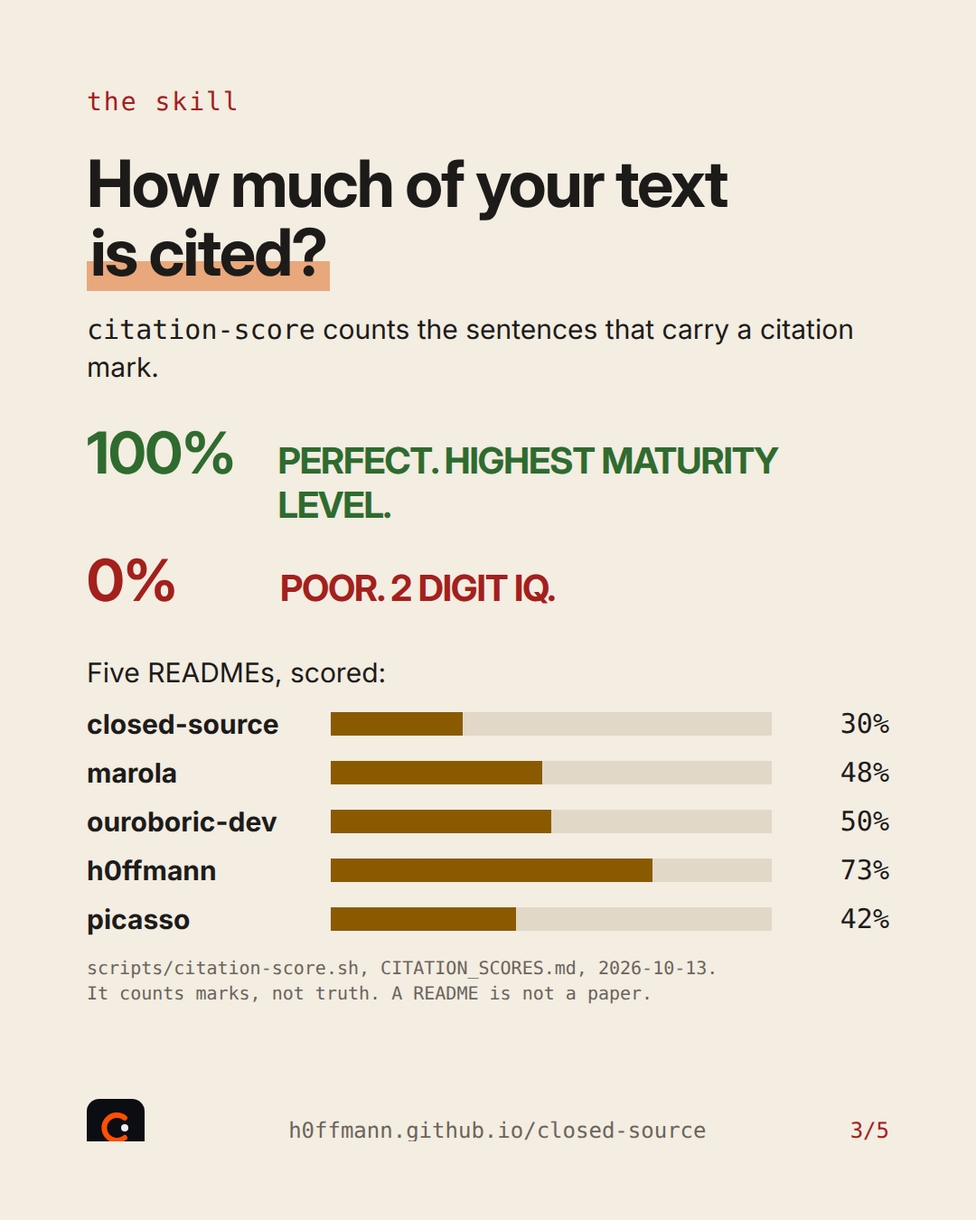
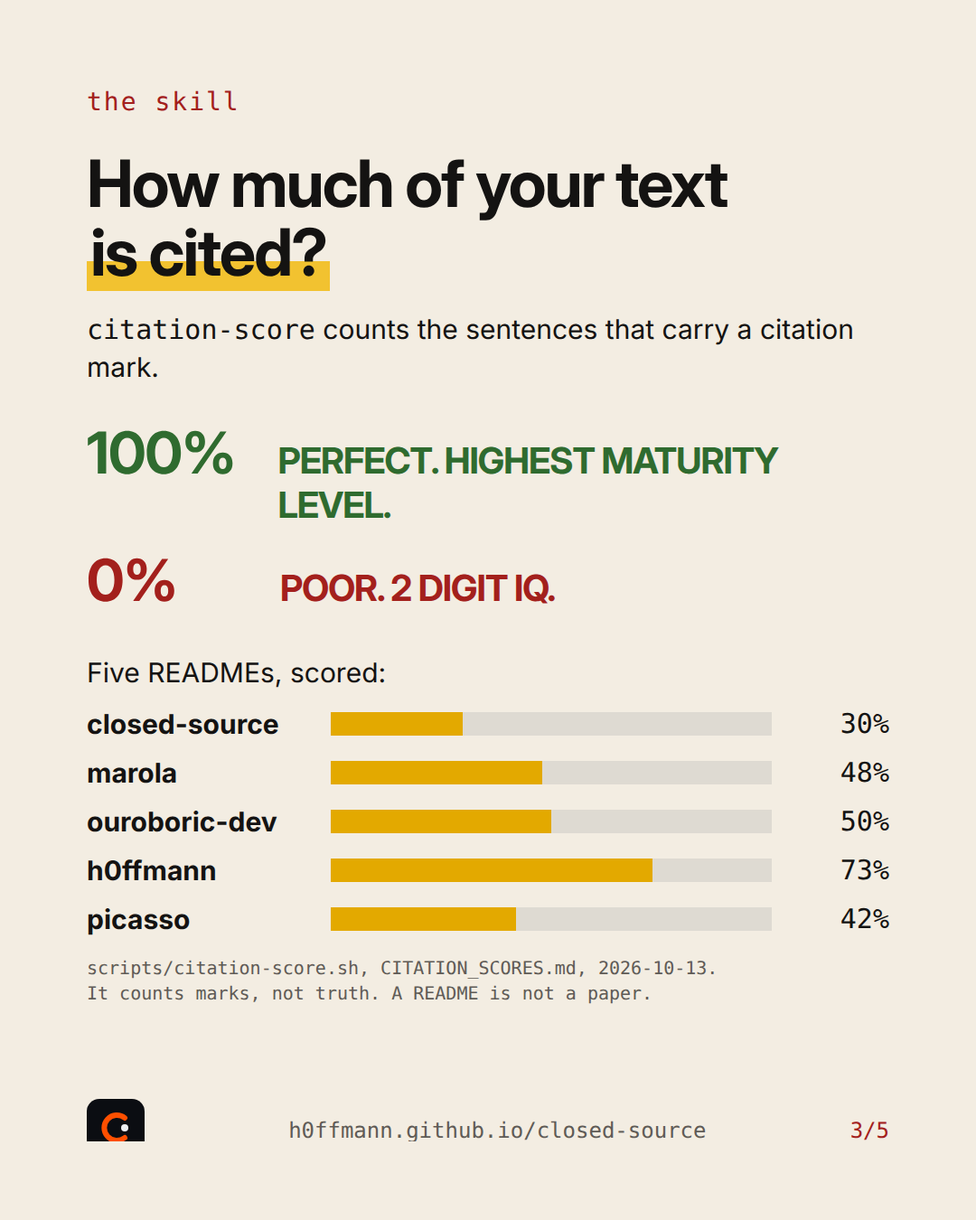
feat(identity): black and red with yellow letters, no brown; the post in easy pt-BR; the first quote
- Identity: the site's cover, its dark theme, the closed-source tile, the README
  badges and the Instagram slides drop brown for black and red, with the title
  in yellow letters, after Hoppe's Democracy (the owner's choice). AGENTS.md
  records the rule.
- docs/social/instagram_001: an easy Brazilian Portuguese version of the post,
  made with the easy-pt-br skill: five slides with the hard words explained and
  README.easy.pt-BR.md. render.mjs renders both versions.
- easy-pt-br skill: a section for documents other than the root README.
- QUOTES.md: its first row, the saying credited to Pablo Picasso, with its
  source, its check (partial: no documentary evidence) and a link to
  h0ffmann/picasso.

Changed region(s): [[0.3361, 0.56, 0.6722, 0.7778], [0.0917, 0.1867, 0.3361, 0.2489]]

diff --git a/site/static/style.css b/site/static/style.css
@@ -1,19 +1,20 @@
 /* The cover follows the type and colour scheme of the cover of Hoppe's "Democracy: The God That
-   Failed" (Transaction, 2001): a brown field, the first half of the title in white, a red band,
-   the second half in black on paper. Colours are estimates; no cover art is reproduced.
+   Failed" (Transaction, 2001), in the identity the owner set on 13 October 2026: a black field,
+   the first half of the title in yellow letters, a red band, the second half in black on paper.
+   No brown anywhere. Colours are choices, not samples; no cover art is reproduced.
    Motion follows Anthropic's frontend-design skill (Apache-2.0): one orchestrated entrance, and
    nothing moves under prefers-reduced-motion. */
 :root {
   --paper: #F4EFE6;
   --surface: #EBE3D6;
   --ink: #141210;
-  --muted: #6B5D4F;
-  --rule: #CDBFAC;
-  --brown: #5A3A22;
-  --brown-deep: #3E2817;
+  --muted: #5F5B56;
+  --rule: #CFC8BC;
+  --black: #0F0E0D;
+  --yellow: #F2C230;
   --red: #A3201C;
   --red-text: #A3201C;
-  --on-brown: #F4EFE6;
+  --on-black: #F4EFE6;
   --ok: #2F6B2F;
   --warn: #8A5A00;
   --serif: 'EB Garamond', Garamond, Georgia, serif;
@@ -23,13 +24,12 @@
 }
 @media (prefers-color-scheme: dark) {
   :root:not([data-theme="light"]) {
-    --paper: #1C140E;
-    --surface: #271C14;
+    --paper: #121110;
+    --surface: #1C1B19;
     --ink: #F1EADF;
-    --muted: #B5A592;
-    --rule: #4A3828;
-    --brown: #4B3020;
-    --brown-deep: #2E1F14;
+    --muted: #B4AEA6;
+    --rule: #3A3734;
+    --black: #050505;
     --red-text: #E0675F;
     --ok: #7BC07B;
     --warn: #E0B35A;
@@ -56,9 +56,9 @@ code, pre { font-family: 'JetBrains Mono', ui-monospace, monospace; font-size: .
 
 /* The cover */
 .cover-art .field {
-  background: var(--brown);
+  background: var(--black);
   background-image: radial-gradient(80rem 30rem at 20% 0%, rgba(255, 240, 220, .08), transparent 70%);
-  color: var(--on-brown);
+  color: var(--on-black);
   padding: 72px 0 40px;
 }
 .imprint, .band p, .byline, .status, .jump a, .section-head h2, .tag, .figure span, .thinker .n {
@@ -73,6 +73,7 @@ code, pre { font-family: 'JetBrains Mono', ui-monospace, monospace; font-size: .
   font: 900 clamp(56px, 13vw, 168px)/.9 var(--display);
   letter-spacing: -.01em;
   text-transform: uppercase;
+  color: var(--yellow);
 }
 .band { background: var(--red); color: #FFF5EE; transform-origin: left center; }
 .band p { margin: 0; padding: 14px 0; font-size: clamp(12px, 1.6vw, 15px); }
@@ -200,7 +201,7 @@ h3 { margin: 0; font: 400 19px/1.3 var(--serif); }
 /* The DOIs section: one large tile for each work, after the product tiles of apple.com. The tiles
    are the only place on the page set in the system sans, with round corners and their own
    colours, so they stand apart from the book. Each colour is the work's subject: the cover's
-   brown for the paper, sea blue for marola (water), deep green for ww3-gpu (waves), and the pale
+   black, with a yellow name, for the paper, sea blue for marola (water), deep green for ww3-gpu (waves), and the pale
    blue of the Nix logo for picasso. */
 main section.shelf { padding-top: 48px; }
 .shelf {
@@ -217,7 +218,8 @@ main section.shelf { padding-top: 48px; }
   background: var(--tile); color: var(--on); overflow: hidden; isolation: isolate;
   transition: transform .25s cubic-bezier(.2, .7, .2, 1), box-shadow .25s ease;
 }
-.tile-paper { --tile: #3E2817; --drawing: url(drawings/padlock.svg); grid-column: 1 / -1; min-height: 300px; }
+
+.tile-paper { --tile: #0F0E0D; --drawing: url(drawings/padlock.svg); grid-column: 1 / -1; min-height: 300px; }
 .tile-marola { --tile: #0A4D7C; --drawing: url(drawings/fish.svg); }
 .tile-ww3-gpu { --tile: #0E4B43; --drawing: url(drawings/wave.svg); }
 .tile-picasso { --tile: #DCE7F7; --on: #16233F; --soft: rgba(22, 35, 63, .74); --chip: rgba(22, 35, 63, .1); --drawing: url(drawings/guitar.svg); }
@@ -235,7 +237,7 @@ main section.shelf { padding-top: 48px; }
 .tile-tags { margin: 0; padding-right: 52px; display: flex; flex-wrap: wrap; gap: 8px; }
 .tile-tags span { padding: 6px 12px; border-radius: 999px; background: var(--chip); font: 600 14px/1 var(--sans); }
 .tile h3 { margin: 22px 0 0; font: 700 clamp(30px, 3.6vw, 44px)/1.05 var(--sans); letter-spacing: -.025em; }
-.tile-paper h3 { font-size: clamp(34px, 5vw, 60px); max-width: 14em; }
+.tile-paper h3 { font-size: clamp(34px, 5vw, 60px); max-width: 14em; color: #F2C230; }
 .tile h3 a { color: inherit; text-decoration: none; }
 .tile h3 a:focus-visible { outline: 0; }
 /* The whole tile is the link. */
@@ -259,14 +261,14 @@ main section.shelf { padding-top: 48px; }
 
 /* Citation scores: one bar for each README, in the band's colour. */
 .scores { list-style: none; padding: 0; margin: 20px 0 0; display: grid; gap: 18px; }
-.score { --band: var(--warn); border-top: 1px solid var(--rule); padding-top: 12px; }
-.score.is-high { --band: var(--ok); }
-.score.is-low { --band: var(--red-text); }
+.score { --band: var(--warn); --fill: #E3A900; border-top: 1px solid var(--rule); padding-top: 12px; }
+.score.is-high { --band: var(--ok); --fill: var(--ok); }
+.score.is-low { --band: var(--red-text); --fill: var(--red); }
 .score-name { margin: 0; }
 .score-name a { font: 700 22px/1.2 var(--display); }
 .score-name span { font-size: 15px; color: var(--muted); }
 .score-bar { margin: 8px 0 6px; height: 12px; background: var(--surface); border: 1px solid var(--rule); }
-.score-bar span { display: block; height: 100%; background: var(--band); }
+.score-bar span { display: block; height: 100%; background: var(--fill); }
 .score-figure { margin: 0; font-size: 16px; color: var(--muted); }
 .score-figure b { color: var(--band); }
 

diff --git a/docs/social/instagram_001/README.easy.pt-BR.md b/docs/social/instagram_001/README.easy.pt-BR.md
@@ -1,0 +1,91 @@
+---
+title: "instagram_001, versão fácil: o livro, o autor, a ferramenta e os pensadores"
+status: draft
+date: 2026-10-13
+related: [README.md, render.mjs, ../../../.claude/skills/easy-pt-br/SKILL.md]
+style: reference
+instagram: not posted
+caption: pt-BR
+---
+<!-- cite: main="Claude"; last="Matheus Hoffmann" -->
+
+# Versão fácil: o primeiro post do closed-source
+
+> **Esta é a versão fácil, em português, de [README.md](README.md), e os slides dela.**
+>
+> - **Vale o original.** Se este texto e o original discordarem, vale o original, em inglês.
+> - **Feita a partir de:** a versão do original de 13 de outubro de 2026.
+> - **Para quem é:** quem vai ler o post sem ser da área de computação ou de pesquisa.
+> - **O que ficou de fora:** como gerar os slides de novo. Isso está no original, em "Render again".
+> - **Escrita por:** Claude, com a skill [`easy-pt-br`](../../../.claude/skills/easy-pt-br/SKILL.md);
+>   revisão de Matheus Hoffmann.
+
+**Não foi postado.** Quem posta é o dono do repositório. Um agente não posta.
+
+São cinco slides em português, no tamanho do Instagram (1080x1350). Eles contam a mesma história
+do post em inglês, com frases mais curtas e com cada palavra difícil explicada. Cada número tem a
+fonte escrita embaixo dele.
+
+## Os slides
+
+| Slide | O que mostra | De onde vem |
+|---|---|---|
+| [slide-1.easy.pt-BR.png](slide-1.easy.pt-BR.png) | o livro: a capa em preto, vermelho e letras amarelas; a frase "cite o que você pega emprestado"; o DOI | [10.5281/zenodo.23333656](https://doi.org/10.5281/zenodo.23333656) |
+| [slide-2.easy.pt-BR.png](slide-2.easy.pt-BR.png) | o autor: na capa está Mr. Nobody; quem escreve é Matheus Hoffmann; três outros trabalhos dele | [`metadata.md`](../../../papers/closed-source/metadata.md) |
+| [slide-3.easy.pt-BR.png](slide-3.easy.pt-BR.png) | a ferramenta `citation-score` e a nota de cinco páginas de projeto | [`CITATION_SCORES.md`](../../../CITATION_SCORES.md) |
+| [slide-4.easy.pt-BR.png](slide-4.easy.pt-BR.png) | os 50 pensadores do livro e as 41 referências do artigo | [`50THINKERS.md`](../../../50THINKERS.md), [`REFERENCES.md`](../../../papers/closed-source/REFERENCES.md) |
+| [slide-5.easy.pt-BR.png](slide-5.easy.pt-BR.png) | o convite: publique, registre, cite; onde ler | a citação gerada no [README](../../../README.md#cite) |
+
+## As palavras difíceis
+
+- **Código fechado** (*closed source*): um programa que você pode usar, mas não pode ler por
+  dentro.
+- **Engenharia reversa**: desmontar um programa pronto para descobrir como ele foi feito.
+- **DOI**: um endereço permanente para um trabalho. O site pode mudar de lugar; o DOI continua
+  funcionando. Por isso se cita o DOI.
+- **Zenodo**: um arquivo público que guarda trabalhos de pesquisa e cria o DOI de cada um.
+- **README**: a página de entrada de um projeto, que diz o que ele é.
+- **Citação**: dizer de onde veio uma ideia, uma frase ou um número.
+- **Preprint**: um artigo publicado antes de uma revista revisar. Este é um preprint.
+- **Skill**: uma instrução escrita para um agente de inteligência artificial fazer uma tarefa.
+
+## O que a nota de citação quer dizer
+
+A `citation-score` lê um texto e conta quantas frases apontam para uma fonte. Uma frase aponta
+para uma fonte quando tem um link, um DOI, ou um autor e um ano.
+
+- **100%** quer dizer que todas as frases apontam para uma fonte. A escala chama isso de
+  "perfeito, nível máximo de maturidade".
+- **0%** quer dizer que nenhuma frase aponta para uma fonte. A escala chama isso de "fraco, QI de
+  2 dígitos". As duas frases são do dono do repositório.
+- **A nota é do texto, não da pessoa.** Uma nota baixa não é um defeito. Uma página que conta o
+  que o autor fez, com as palavras dele, tem pouco para citar.
+- **A ferramenta conta as marcas.** Ela não sabe se a citação está certa.
+
+## Legenda (pt-BR, versão fácil)
+
+```text
+Saiu a primeira versão de "Closed Source: The God that Failed" ("Código fechado: o deus que falhou").
+
+A ideia é simples. Código fechado é um programa que você usa, mas não pode ler por dentro. Hoje, com inteligência artificial, qualquer pessoa consegue desmontar um programa e ver como ele funciona. Então esconder não protege mais. O caminho honesto é outro: mostrar como você fez e citar de quem você pegou cada ideia.
+
+O livro vai ter 100 páginas: 50 pensadores, duas páginas para cada um.
+
+Junto vem uma ferramenta, a citation-score. Ela lê um texto e diz quanto dele tem citação. Ela conta as citações, mas não confere se estão certas.
+
+O trabalho tem um DOI, que é um endereço que não muda: 10.5281/zenodo.23333656. Ainda é um rascunho público. Nenhuma revista revisou o texto.
+
+As fontes estão em cada slide. Site, artigo e código: link na bio.
+
+#codigoaberto #opensource #citacao #pesquisa #doi
+```
+
+Link na bio: https://h0ffmann.github.io/closed-source/
+
+## Texto alternativo
+
+1. Um bloco de capa de livro: CLOSED SOURCE em letras amarelas sobre preto, THE GOD THAT FAILED em uma faixa vermelha. Texto: hoje qualquer pessoa consegue desmontar um programa para ver como ele funciona, então cite o que você pega emprestado. O DOI 10.5281/zenodo.23333656, um endereço que não muda. Uma coruja desenhada com uma linha.
+2. O autor. Na capa, Mr. Nobody; atrás dela, uma pessoa: Matheus Hoffmann, da Escola Politécnica da UFRJ. Três outros trabalhos com DOI: marola, ww3-gpu e picasso. Um rosto desenhado com uma linha.
+3. A ferramenta. Quanto do seu texto tem citação? 100%: perfeito, nível máximo de maturidade. 0%: fraco, QI de 2 dígitos. Cinco páginas de projeto medidas em barras: closed-source 30%, marola 48%, ouroboric-dev 50%, h0ffmann 73%, picasso 42%. Ela conta as marcas e não confere se a citação está certa.
+4. As referências. 50 pensadores, duas páginas para cada um: 100 páginas, 42 pensadores com nome e 8 lugares abertos; 41 referências no artigo, cada uma lida antes de ser citada. Catorze nomes, de Auguste Kerckhoffs a Geoffrey Hinton. Um violão desenhado com uma linha.
+5. Publique o método, registre um identificador, cite o que você usa. Um artigo de opinião, versão v0, que nenhuma revista revisou ainda. O DOI, o site e o código. Uma pomba desenhada com uma linha.

diff --git a/docs/social/instagram_001/README.md b/docs/social/instagram_001/README.md
@@ -14,15 +14,18 @@ caption: pt-BR
 **Not posted.** The owner posts it; an agent does not. When it is posted, put the link in
 `instagram:` above and change `status`.
 
-A carousel of five slides, 1080x1350 (4:5), for Hoffmann's personal Instagram page. The story is
+A carousel of five slides, 1080x1350 (4:5), for Hoffmann's personal Instagram page. There are two
+versions: this one, in English (`slide-N.png`), and an easy Brazilian Portuguese one with more
+explanation (`slide-N.easy.pt-BR.png`, [README.easy.pt-BR.md](README.easy.pt-BR.md)), made with
+the `easy-pt-br` skill. The story is
 the book, its author, the `citation-score` skill and the thinkers the book stands on. Each number
 on a slide shows its source under it, and `render.mjs` reads each number from that source when it
 renders.
 
 It follows the first picasso post, h0ffmann/picasso
 [`docs/social/instagram_001/`](https://github.com/h0ffmann/picasso/tree/29eb385/docs/social/instagram_001)
-at commit `29eb385`: the same slide system and the same drawings. The colours are this book
-cover's brown and red in place of picasso's blue.
+at commit `29eb385`: the same slide system and the same drawings. The colours are the book's
+identity, black and red with yellow letters, in place of picasso's blue.
 
 | Slide | Shows | Sources |
 |---|---|---|
@@ -62,7 +65,7 @@ Link in the bio: https://h0ffmann.github.io/closed-source/
 
 ## Alt text
 
-1. A book cover block: CLOSED SOURCE in cream on brown, THE GOD THAT FAILED on a red band. Text: if anyone can reverse engineer anything, cite what you borrow. The DOI 10.5281/zenodo.23333656. A one-line owl.
+1. A book cover block: CLOSED SOURCE in yellow letters on black, THE GOD THAT FAILED on a red band. Text: if anyone can reverse engineer anything, cite what you borrow. The DOI 10.5281/zenodo.23333656. A one-line owl.
 2. The author. Mr. Nobody on the cover, a person behind it: written in the first person by Matheus Hoffmann, Escola Politécnica, UFRJ. Three other works with their DOIs: marola, ww3-gpu and picasso. A one-line face.
 3. The skill. How much of your text is cited? 100%: perfect, highest maturity level. 0%: poor, 2 digit IQ. Five READMEs scored as bars: closed-source 30%, marola 48%, ouroboric-dev 50%, h0ffmann 73%, picasso 42%. It counts marks, not truth.
 4. The references. 50 thinkers, two pages each: 100 pages, 42 thinkers named and 8 places open; 41 references in the paper, each fetched before it was cited. Fourteen names, from Auguste Kerckhoffs to Geoffrey Hinton. A one-line cubist guitar.
@@ -74,8 +77,9 @@ Link in the bio: https://h0ffmann.github.io/closed-source/
 git submodule update --init --depth 1 forks/picasso   # the drawings
 just citation-board                                   # refresh CITATION_SCORES.md, if the READMEs changed
 cd docs/social/instagram_001
-node render.mjs            # needs node and Chrome; CHROMIUM=<path> to pick a browser
+node render.mjs            # both versions; needs node and Chrome; CHROMIUM=<path> to pick a browser
 ```
 
 The slides need the fonts Inter, Inter Display and DejaVu Sans Mono on the machine. If the
-numbers in `CITATION_SCORES.md` change, update the alt text of slide 3 here.
+numbers in `CITATION_SCORES.md` change, update the alt text of slide 3 here and in the easy
+version. If a slide's words change in `render.mjs`, change both versions there, then both READMEs.

diff --git a/.claude/project/request.md b/.claude/project/request.md
@@ -638,3 +638,38 @@ skill, the thinkers and the references, and where to read. It is a draft: the ow
 "This PR" is read as the pull request that carries the README, the skills and this post, #35,
 now titled "essays: citation".
 
+```text
+quick feedback looking at the PR, Change all this BROWN in the image from Identity. The book color Identity should match black and red like Democracy from HHH, maybe with yellow letters
+```
+
+Read as: the brown goes from every place the identity shows, not only the slides: the site's
+cover and its dark theme, the closed-source tile, the README's badges and the Instagram slides.
+The field is black, the band is red, and the title is in yellow letters. The slides' highlighter
+mark and the middle band of the score bars are yellow too. "HHH" is Hans-Hermann Hoppe.
+
+```text
+Faça uma versão easy-ptbr, usando a skill, fazendo o post em portugues mais explicado
+```
+
+Read as: an easy Brazilian Portuguese version of the Instagram post, made with the `easy-pt-br`
+skill: five slides in Portuguese (`slide-N.easy.pt-BR.png`) with shorter sentences and the hard
+words explained on the slide, and `README.easy.pt-BR.md` in the post's folder with a list of the
+hard words, what the score means, a longer caption and the alt text. The skill gains a section
+for documents other than the root README.
+
+```text
+about the prhase is about lucky, people said he got lucky, but se said every he was painting
+```
+
+```text
+this QUOTE.md should be the first QUOTE, citing the Great, Pablo Picasso, as ref. add h0ffmann/picasso link in the quote
+```
+
+Read as: "Lucky" in the request for a note in picasso's README was a saying, not Picasso's dog
+Lump, which the first reading took it for. The saying found is "Inspiration does exist, but it
+must find you working." It is the first row of `QUOTES.md` here, with a link to h0ffmann/picasso.
+The one source fetched (Barry Popik, 2013) finds no documentary evidence that Picasso said it, so
+the row says "credited to" and its check is `partial`. The story as the owner told it, that
+people called Picasso lucky and he answered that he painted every day, was not found in a source
+and is given as the owner's words.
+

diff --git a/README.md b/README.md
@@ -12,8 +12,8 @@
 [![site](https://github.com/h0ffmann/closed-source/actions/workflows/site.yml/badge.svg)](https://github.com/h0ffmann/closed-source/actions/workflows/site.yml)
 [![latest DOI](https://img.shields.io/badge/latest_DOI-10.5281%2Fzenodo.23333656-1682D4?style=flat-square)](https://doi.org/10.5281/zenodo.23333656)
 [![v0.1.0 DOI](https://img.shields.io/badge/v0.1.0_DOI-10.5281%2Fzenodo.23333657-555555?style=flat-square)](https://doi.org/10.5281/zenodo.23333657)
-[![text: CC BY 4.0](https://img.shields.io/badge/text-CC%20BY%204.0-5A3A22?style=flat-square&logo=creativecommons&logoColor=white)](#licence)
-[![code: AGPL-3.0](https://img.shields.io/badge/code-AGPL--3.0-5A3A22?style=flat-square&logo=gnu&logoColor=white)](#licence)
+[![text: CC BY 4.0](https://img.shields.io/badge/text-CC%20BY%204.0-111111?style=flat-square&logo=creativecommons&logoColor=white)](#licence)
+[![code: AGPL-3.0](https://img.shields.io/badge/code-AGPL--3.0-111111?style=flat-square&logo=gnu&logoColor=white)](#licence)
 
 the first paper made with **paper fabric**, an open, self-improving pipeline for technical papers
 in the [ouroboric](https://github.com/ouroboric-dev/ouroboric) style. markdown in, PDF out, every
@@ -117,8 +117,8 @@ book cover, after the colour scheme and type of the cover of
 > hoppe, hans-hermann. *democracy—the god that failed: the economics and politics of monarchy,
 > democracy, and natural order*. new brunswick, NJ: transaction publishers, 2001. ISBN 0-7658-0088-8.
 
-its 2001 cover has a brown field, a white title, a red band and the rest of the title in black. the
-site's colours are estimates from that description, not samples. the book is under copyright
+the identity is black and red, as on that cover, with the title in yellow letters; the owner set
+it on 13 october 2026. the colours are choices, not samples. the book is under copyright
 (© 2001), so the site copies no cover art and no text from it. the motion follows anthropic's
 [frontend-design skill](https://github.com/anthropics/skills) (apache-2.0): one entrance, and
 nothing moves when the reader asks for reduced motion. hoppe

diff --git a/.claude/skills/easy-pt-br/SKILL.md b/.claude/skills/easy-pt-br/SKILL.md
@@ -1,6 +1,6 @@
 ---
 name: easy-pt-br
-description: "Make or update README.easy.pt-BR.md, the easy Brazilian Portuguese version of README.md. Use after any change to README.md, when the hook or scripts/readme.sh --check says the easy version is older than README.md, or when asked for a 'versão fácil'."
+description: "Make or update an easy Brazilian Portuguese version of a document: README.easy.pt-BR.md from README.md, or <name>.easy.pt-BR.md beside any other source, such as a social post. Use after any change to README.md, when the hook or scripts/readme.sh --check says the easy version is older than README.md, or when asked for a 'versão fácil' or an 'easy pt-BR' of anything."
 ---
 <!-- cite: main="Claude"; last="Matheus Hoffmann" -->
 
@@ -60,6 +60,21 @@ what this file is:
 > - **o que ficou de fora:** <what was shortened, and where it is in the original>.
 > - **escrita por:** claude, com a skill `easy-pt-br`; revisão de matheus hoffmann.
 ```
+
+## Other documents
+
+The same rules make an easy version of any document. Put it beside its source, with the same
+name and `.easy.pt-BR.md` at the end, and start it with the header block.
+
+- **The case follows the source.** Only the root `README.md` and its easy version are in lower
+  case. A document in sentence case gets an easy version in sentence case.
+- **More explanation is allowed, more facts are not.** An easy version may add a list of the hard
+  words with one plain sentence each, as `docs/social/instagram_001/README.easy.pt-BR.md` does.
+  Each sentence explains a word; it does not add a claim about the work.
+- **Images with words** (the slides of a post) get an easy version too: the words are in
+  `T['easy.pt-BR']` in the post's `render.mjs`, and the files are `slide-N.easy.pt-BR.png`.
+- **Only the root README has a stamp.** `scripts/readme.sh` checks that one. For any other
+  document, the header block's "feita a partir de" line carries the date of the source.
 
 ## Why there is a stamp
 

diff --git a/QUOTES.md b/QUOTES.md
@@ -8,8 +8,13 @@ related: [50THINKERS.md, papers/closed-source/REFERENCES.md]
 # Quotes
 
 Quotations that the book uses or may use. Each one is exact, in its original language, with its
-source and the status of the check (AGENTS.md: never invent a reference). The content comes in the
-next ingest.
+source and the status of the check (AGENTS.md: never invent a reference). The rest of the content
+comes in the next ingest.
+
+The first quotation is the one that [h0ffmann/picasso](https://github.com/h0ffmann/picasso), the
+owner's Nix labs, carries in its credits, in the name of the great Pablo Picasso: people say an
+artist got lucky, and the answer is that the luck found him at work (Hoffmann, 13 October 2026).
 
 | Quote | Who | Source | Checked |
 |---|---|---|---|
+| "Inspiration does exist, but it must find you working." | credited to Pablo Picasso (1881-1973) | Barry Popik, ["Inspiration does exist, but it must find you working"](https://barrypopik.com/blog/inspiration_does_exist_but_it_must_find_you_working), *The Big Apple*, 27 July 2013; used in [h0ffmann/picasso](https://github.com/h0ffmann/picasso)'s README (h0ffmann/picasso#124) | partial: the wording is the source's, fetched on 13 October 2026. The source finds it credited to Picasso in print only since 2007, with no documentary evidence that he said it, and gives it in English only. Write "credited to Picasso", never "Picasso said" |

diff --git a/.claude/skills/README.md b/.claude/skills/README.md
@@ -16,7 +16,7 @@ names the file and the commit it was read from (AGENTS.md, "Borrow, cite, propag
 | Skill | Use it to | Read from |
 |---|---|---|
 | [`readme-style`](readme-style/SKILL.md) | write `README.md` in its style: picasso's header, lower case except acronyms | h0ffmann/picasso `README.md` at `29eb385`; h0ffmann/h0ffmann `README.md` at `1a3a7e1` |
-| [`easy-pt-br`](easy-pt-br/SKILL.md) | make `README.easy.pt-BR.md` from `README.md` | marola-dev/marola `docs/MIPs/MIP-0091.easy.pt-BR.md` and `.claude/skills/eli5/SKILL.md` at `cf7bd4f` |
+| [`easy-pt-br`](easy-pt-br/SKILL.md) | make `README.easy.pt-BR.md` from `README.md`, or an easy pt-BR version of any other document | marola-dev/marola `docs/MIPs/MIP-0091.easy.pt-BR.md` and `.claude/skills/eli5/SKILL.md` at `cf7bd4f` |
 | [`citation-score`](citation-score/SKILL.md) | score how much of a phrase, a text, a dump, a file or a URL is cited, with a coloured verdict (`scripts/citation-score.sh`) | Hyland and Jiang (2019), doi:10.1093/applin/amx012; Liu, Zhang and Liang (2023), arXiv:2304.09848 |
 | [`card-style`](card-style/SKILL.md) | style the site's cards, with a one-line drawing behind each | h0ffmann/picasso `site/static/drawings/` at `29eb385`; Anthropic's `frontend-design` skill (Apache-2.0) |
 

diff --git a/AGENTS.md b/AGENTS.md
@@ -143,6 +143,9 @@ is cited, and friends under an alias from `PERSONAS.md`. `/note` makes them; `ju
   is a measure, not a gate: no check fails on a score.
 - A skill in `.claude/skills/` is written here and names its sources; do not copy a skill from
   another repository. After a change to one, run `scripts/readme.sh --lock`.
+- The book's colours are black and red, with yellow letters for the title, after Hoppe's
+  *Democracy: The God That Failed* (Hoffmann, 13 October 2026). No brown: not on the site, the
+  slides or a badge.
 - Style: `research` for papers (Ouroboric writing styles), `agent-facing` for this file.
 - Short sentences. Active voice. No undefined jargon. Numbers over adjectives.
 - Every doc has front matter: `title`, `status`, `date`, `related`, optional `style`.

diff --git a/README.easy.pt-BR.md b/README.easy.pt-BR.md
@@ -1,5 +1,5 @@
 <!-- cite: main="Claude"; last="Matheus Hoffmann" -->
[2 lines of base64/hex data omitted]
 # versão fácil: closed source: the god that failed
 
 > **esta é a versão fácil, em português, do [README.md](README.md).**
